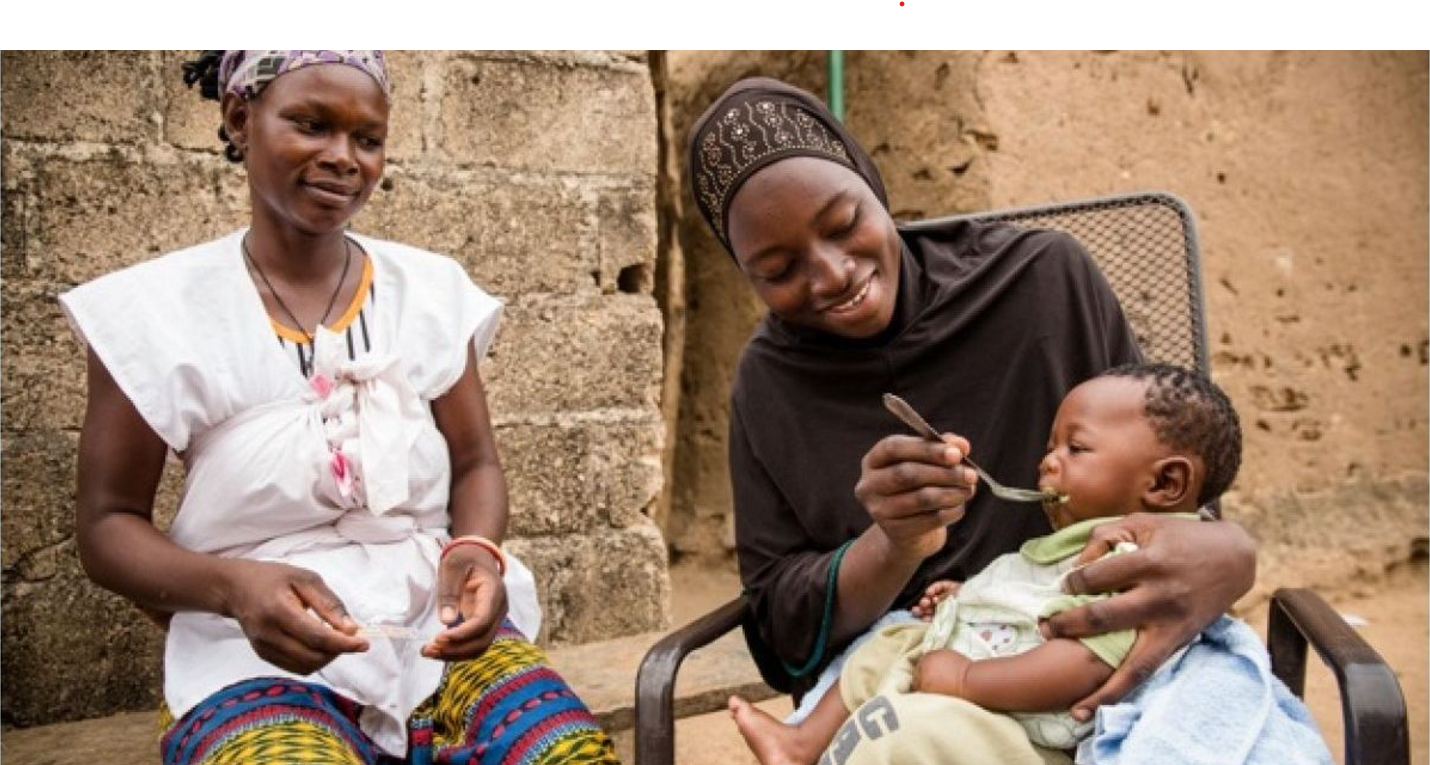
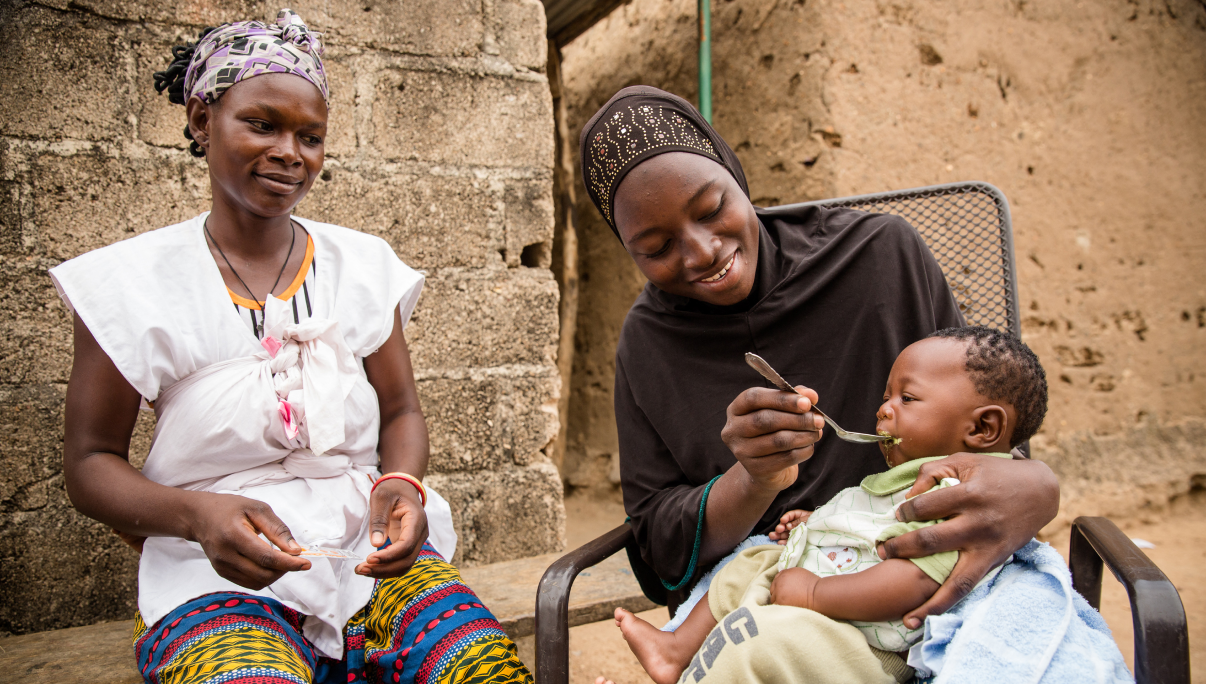
Fixed image aspect ratios when scaling

diff --git a/style.css b/style.css
@@ -178,7 +178,7 @@ p {
   flex-direction: column;
 }
 .malaria_images {
-  object-fit: fill;
+  object-fit: contain;
   width: 100%;
   height: 24em;
 }
@@ -380,7 +380,7 @@ p {
     flex-direction: column;
   }
   .malaria_images {
-    object-fit: fill;
+    object-fit: contain;
     width: 100%;
     height: 18em;
     margin-bottom: 2em;
